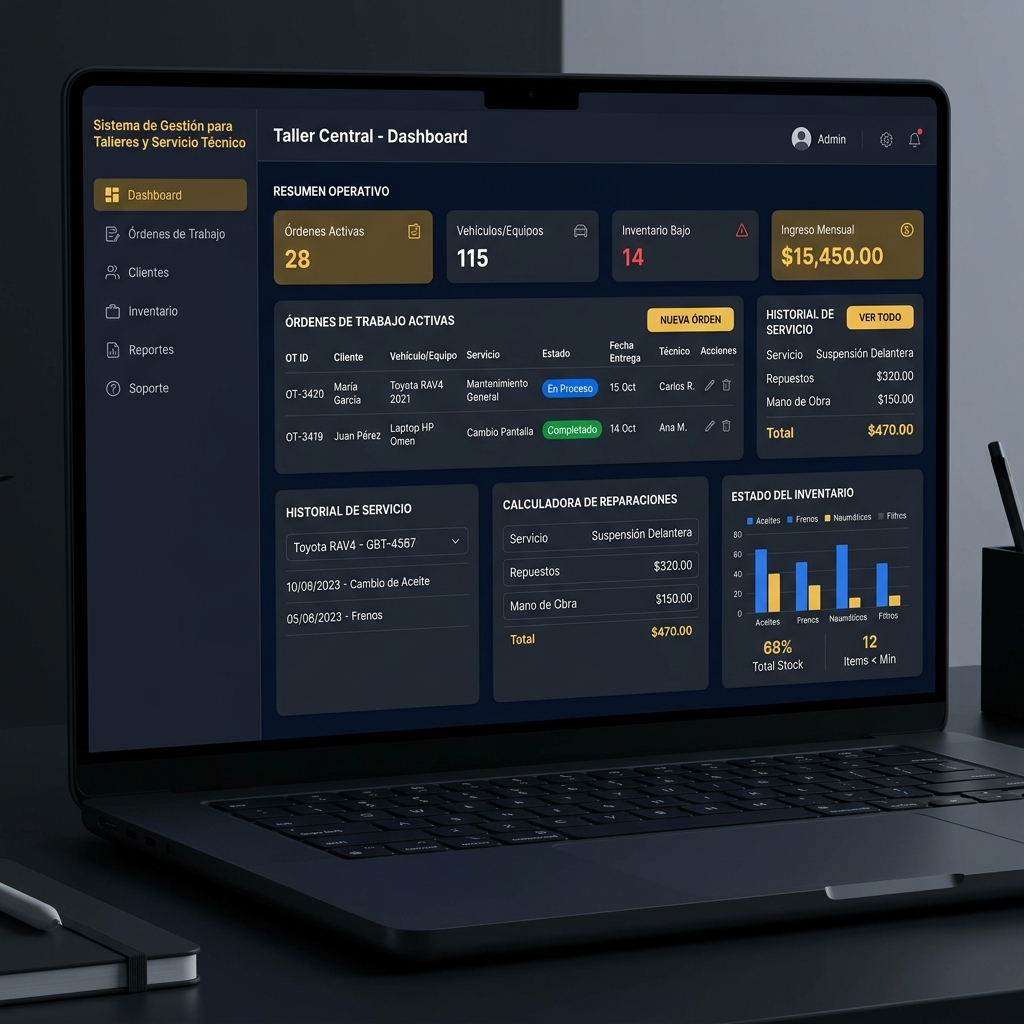
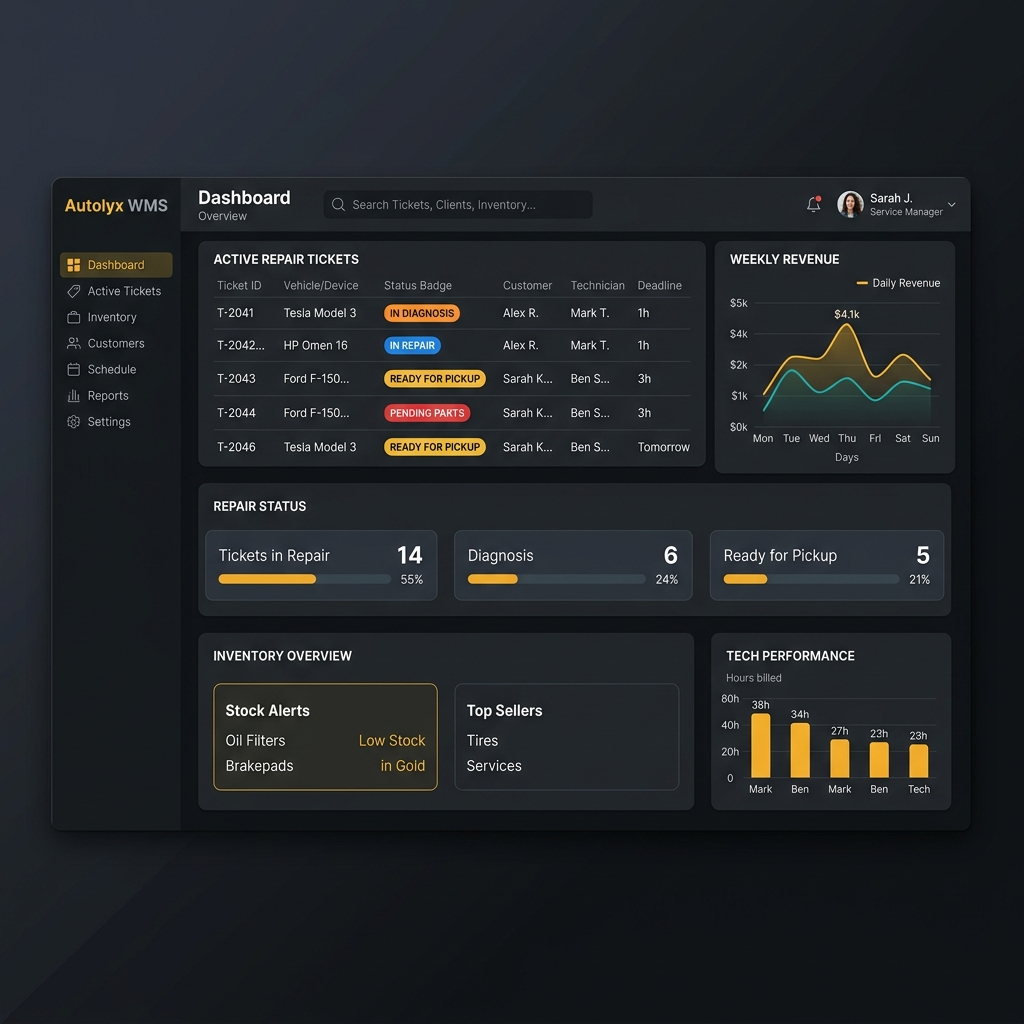
🛍 Add MrPOS software product with real screenshot & updated workshop software image

diff --git a/render-config.js b/render-config.js
@@ -139,7 +139,12 @@
     if (grid && p.projects) {
       grid.innerHTML = p.projects.map((proj, idx) => {
         const isYoutube = proj.link && (proj.link.includes('youtu.be') || proj.link.includes('youtube.com'));
-        const btnText = isYoutube ? '▶ Ver Demo en Video' : 'Ver proyecto ↗';
+        const isInternal = proj.link && proj.link.startsWith('#');
+        const targetAttr = isInternal ? '' : 'target="_blank" rel="noopener noreferrer"';
+        const overlayText = isYoutube ? '▶ Ver Demo en Video' : (isInternal ? 'Cotizar Producto' : 'Ver proyecto ↗');
+        const btnLabel = isYoutube ? 'Ver Demostración en YouTube' : (isInternal ? 'Cotizar / Solicitar Demo' : 'Ver Sitio Web');
+        const btnIcon = isYoutube ? '🎬' : (isInternal ? '💬' : '🔗');
+
         return `
         <article class="portfolio-card reveal ${idx > 0 ? 'reveal-delay-' + (idx % 4) : ''}" id="${esc(proj.id || 'proj' + idx)}">
           <div class="portfolio-img-wrap">
@@ -149,7 +154,7 @@
               loading="lazy"
             />
             <div class="portfolio-overlay">
-              ${proj.link ? `<a href="${esc(proj.link)}" target="_blank" rel="noopener noreferrer" class="portfolio-view-btn">${btnText}</a>` : `<span class="portfolio-view-btn">Ver detalle</span>`}
+              ${proj.link ? `<a href="${esc(proj.link)}" ${targetAttr} class="portfolio-view-btn">${overlayText}</a>` : `<span class="portfolio-view-btn">Ver detalle</span>`}
             </div>
           </div>
           <div class="portfolio-info">
@@ -161,9 +166,9 @@
             </div>
             ${proj.link ? `
               <div style="margin-top:14px">
-                <a href="${esc(proj.link)}" target="_blank" rel="noopener noreferrer" class="btn-primary" style="display:inline-flex;align-items:center;gap:8px;padding:8px 16px;font-size:0.85rem;border-radius:6px">
-                  <span>${isYoutube ? '🎬' : '🔗'}</span>
-                  <span>${isYoutube ? 'Ver Demostración en YouTube' : 'Ver Sitio Web'}</span>
+                <a href="${esc(proj.link)}" ${targetAttr} class="btn-primary" style="display:inline-flex;align-items:center;gap:8px;padding:8px 16px;font-size:0.85rem;border-radius:6px">
+                  <span>${btnIcon}</span>
+                  <span>${btnLabel}</span>
                 </a>
               </div>
             ` : ''}

diff --git a/config.js b/config.js
@@ -89,10 +89,20 @@ const RV_CONFIG = {
     subtitle: "Proyectos completados y entregados a clientes reales. Cada uno resuelve un problema concreto con tecnología de calidad.",
     projects: [
       {
+        id:    "proyectoMrPOS",
+        image: "assets/mrpos.png",
+        alt:   "MrPOS — Sistema Punto de Venta & Control de Stock Multirrubro",
+        tag:   "Software Pro · POS Multirrubro",
+        title: "MrPOS — Sistema Punto de Venta & Control de Stock",
+        desc:  "Sistema Punto de Venta (POS) profesional adaptado para cualquier rubro: Panadería, Botillería, Carnicería, Minimarket, Boutique y más. Incluye informes detallados, control de inventario en tiempo real, gestión de cajeros por PIN/RUT y ventas rápidas.",
+        tech:  ["Punto de Venta", "Control de Stock", "Multirrubro", "Informes de Ventas", "Gestión por PIN/RUT"],
+        link:  "#contacto"
+      },
+      {
         id:    "proyectoTallerSoftware",
         image: "assets/portfolio-taller.png",
         alt:   "Sistema de Gestión para Talleres y Servicio Técnico — Producto propio",
-        tag:   "Software Pro · Producto Destacado",
+        tag:   "Software Pro · Servicio Técnico & Talleres",
         title: "Sistema de Gestión para Talleres & Servicio Técnico",
         desc:  "Software integral para la administración operativa de talleres mecánicos y servicios técnicos. Control de órdenes de trabajo, seguimiento de repuestos, gestión de clientes, presupuestos e historial de vehículos/equipos.",
         tech:  ["Software Desktop", "Control de Stock", "Gestión de Órdenes", "Reportes PDF", "Demo en YouTube"],
